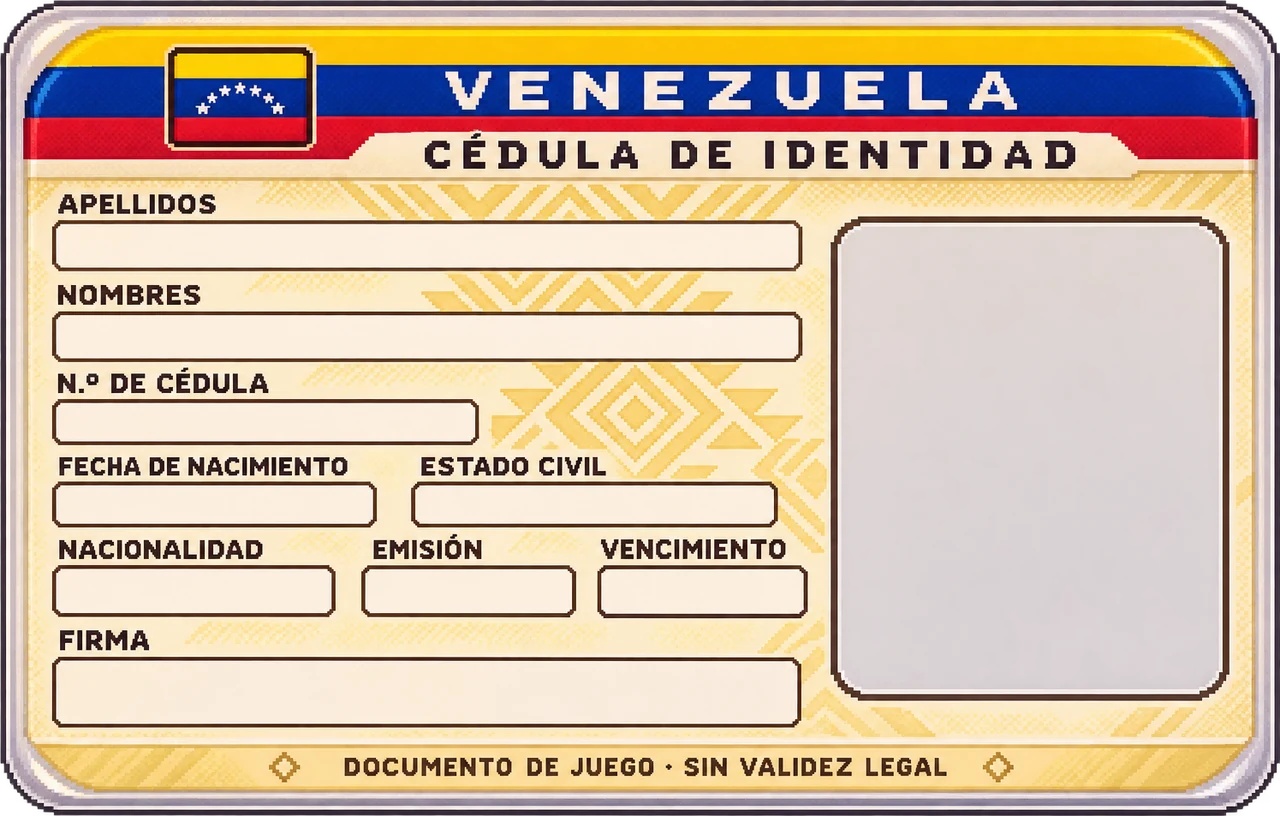
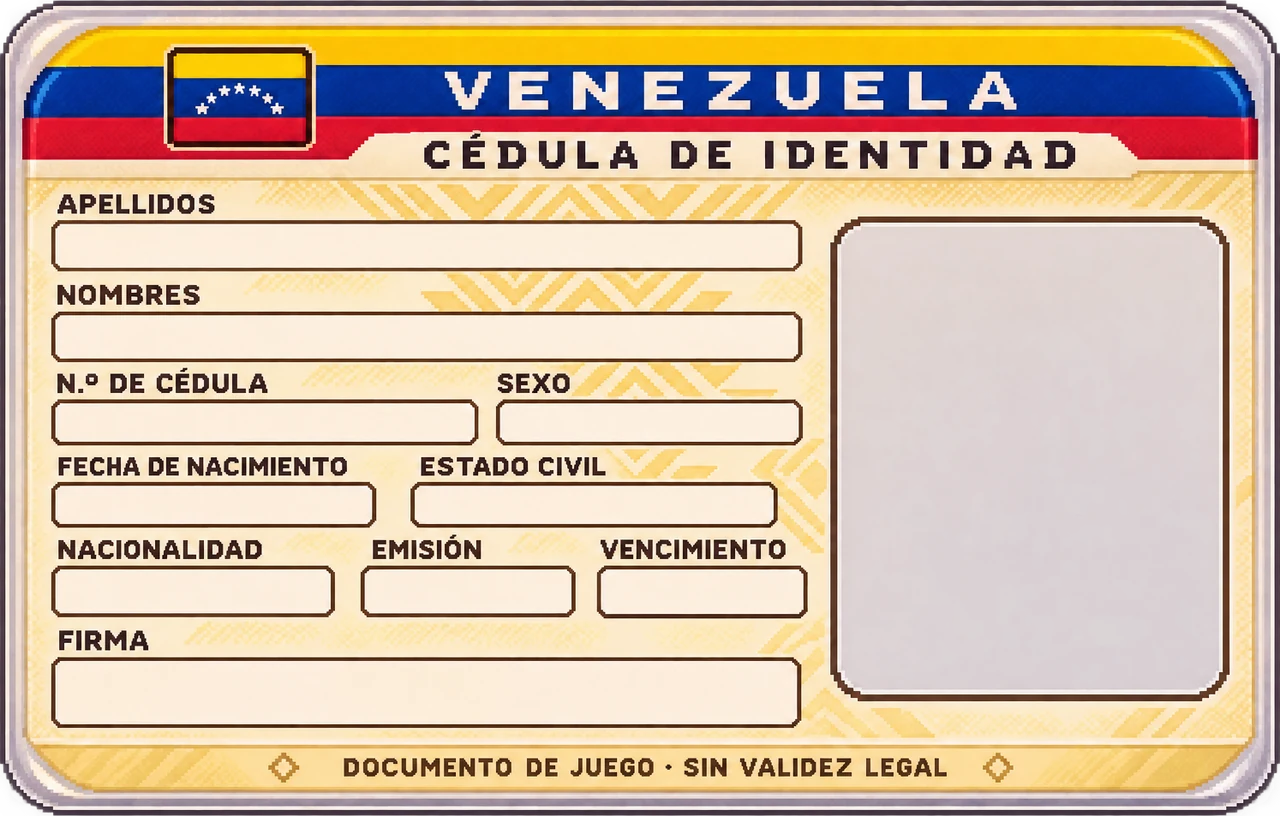
Recipe, Please 1.9.68: carnet de Venezuela con sexo y carnet de China
Claude-Session: https://claude.ai/code/session_018UFpU1d8ZLEVkvV1kBCNUa

diff --git a/game.js b/game.js
@@ -1,4 +1,4 @@
-/* RECIPE, PLEASE — Edición 1.9.67. Veintitrés pacientes chilenos más (48 en total); carnets de pelo rubio y rojo válidos, carnet falso de pelo negro, caso sin carnet con quetiapina 50 mg, menor de 17; carnet con pelo azul válido; carnets pendientes sin accesorio; mecanismo de carnet falso. */
+/* RECIPE, PLEASE — Edición 1.9.68. Veintitrés pacientes chilenos más (48 en total); carnets de pelo rubio y rojo válidos, carnet falso de pelo negro, caso sin carnet con quetiapina 50 mg, menor de 17; carnet con pelo azul válido; carnets pendientes sin accesorio; mecanismo de carnet falso. */
 'use strict';
 const TUGUEL_FIRST_VISIT_INDEX=2;
 const SIS_UNLOCK_DAY=2;
@@ -2020,7 +2020,7 @@ function wrap(body){
   toastEl.classList.remove('show');
  }
  const returning=modal?null:modalOpener;
- app.innerHTML=`<main class="shell" data-practice-step="${game.tutorial?game.patientIndex:''}"${modal?' inert aria-hidden="true"':''}>${['welcome','prologue'].includes(game.scene)||game.gameOverReason==='day-seven-false-prescription'?'':header()}${body}</main><div class="footer">RECIPE, PLEASE · Edición 1.9.67 · Una obra de ficción. Simulación farmacéutica simplificada, no una guía clínica ni normativa.</div>${modal}`;
+ app.innerHTML=`<main class="shell" data-practice-step="${game.tutorial?game.patientIndex:''}"${modal?' inert aria-hidden="true"':''}>${['welcome','prologue'].includes(game.scene)||game.gameOverReason==='day-seven-false-prescription'?'':header()}${body}</main><div class="footer">RECIPE, PLEASE · Edición 1.9.68 · Una obra de ficción. Simulación farmacéutica simplificada, no una guía clínica ni normativa.</div>${modal}`;
  bindDrag();
  if(!modal){
   clearModalRendering();
@@ -2062,7 +2062,7 @@ function btn(text,act,cls='dark',extra=''){return `<button class="btn ${cls}" da
 function actionbar(items){return `<div class="actionbar">${items.map(x=>btn(...x)).join('')}</div>`}
 function menuHtml(){clearModalRendering();if(TACA_PREVIEW){
  app.innerHTML='<main class="shell"><section class="menu-options"><h1>¡Campeones de taca-taca!</h1><div class="btn-row"><a class="btn cream" href="./?escenas=carlitos">Volver a probar las escenas</a><a class="btn green" href="./">Jugar la versión completa</a></div></section></main>';return;
- }let saved=load();app.innerHTML=`<main class="shell">${stage('menu','EDICIÓN JUGABLE · VERSIÓN 1.9.67','Su receta, por favor · una decisión, una consecuencia')}<section class="menu-options textured-menu"><div class="menu-audio" role="group" aria-label="Sonido y música"><button class="smallbtn audio-toggle" data-action="toggle-sound" aria-pressed="${ui.soundEnabled?'true':'false'}">${ui.soundEnabled?'♫ SONIDO: SÍ':'♪ SONIDO: NO'}</button><button class="smallbtn music-toggle" data-action="toggle-music" aria-pressed="${ui.musicEnabled?'true':'false'}">${ui.musicEnabled?'♬ MÚSICA: SÍ':'♩ MÚSICA: NO'}</button></div><h1>UNA RECETA.<br>UNA DECISIÓN.<br>UNA CONSECUENCIA.</h1><p>Eres el químico farmacéutico de una farmacia de barrio. Revisa documentos, recibe pedidos, controla medicamentos y cuida de tu familia. Las decisiones no siempre son fáciles.</p><div class="btn-row">${btn('▶ NUEVA PARTIDA','new','green')}${saved?btn('▣ CONTINUAR PARTIDA','continue','cream'):''}</div><div class="difficulty"><b>Esta versión ya permite:</b><p class="small">Pacientes sin repetición durante la campaña · firmas caligráficas · regalos animados · documentos con texturas · documentos arrastrables · atención y validación de recetas · comparación ampliada · recepción física de pedidos · reportes · libros correlativos · fiscalizaciones y rectificaciones · remuneración · familia y Carlitos · eventos clandestinos.</p><p class="tiny muted">Contiene una campaña de demostración con jornadas repetibles. El arte es un prototipo derivado de los bocetos aprobados; las reglas de juego no sustituyen procedimientos sanitarios reales.</p></div></section></main>`}
+ }let saved=load();app.innerHTML=`<main class="shell">${stage('menu','EDICIÓN JUGABLE · VERSIÓN 1.9.68','Su receta, por favor · una decisión, una consecuencia')}<section class="menu-options textured-menu"><div class="menu-audio" role="group" aria-label="Sonido y música"><button class="smallbtn audio-toggle" data-action="toggle-sound" aria-pressed="${ui.soundEnabled?'true':'false'}">${ui.soundEnabled?'♫ SONIDO: SÍ':'♪ SONIDO: NO'}</button><button class="smallbtn music-toggle" data-action="toggle-music" aria-pressed="${ui.musicEnabled?'true':'false'}">${ui.musicEnabled?'♬ MÚSICA: SÍ':'♩ MÚSICA: NO'}</button></div><h1>UNA RECETA.<br>UNA DECISIÓN.<br>UNA CONSECUENCIA.</h1><p>Eres el químico farmacéutico de una farmacia de barrio. Revisa documentos, recibe pedidos, controla medicamentos y cuida de tu familia. Las decisiones no siempre son fáciles.</p><div class="btn-row">${btn('▶ NUEVA PARTIDA','new','green')}${saved?btn('▣ CONTINUAR PARTIDA','continue','cream'):''}</div><div class="difficulty"><b>Esta versión ya permite:</b><p class="small">Pacientes sin repetición durante la campaña · firmas caligráficas · regalos animados · documentos con texturas · documentos arrastrables · atención y validación de recetas · comparación ampliada · recepción física de pedidos · reportes · libros correlativos · fiscalizaciones y rectificaciones · remuneración · familia y Carlitos · eventos clandestinos.</p><p class="tiny muted">Contiene una campaña de demostración con jornadas repetibles. El arte es un prototipo derivado de los bocetos aprobados; las reglas de juego no sustituyen procedimientos sanitarios reales.</p></div></section></main>`}
 function briefingHtml(){return `${stage('pharmacy',`MEMORÁNDUM · DÍA ${z(game.day)}`,'Inicio del turno farmacéutico')}<section class="content"><div class="content-grid"><div class="paper"><h2>CIRCULAR INTERNA</h2><p><b>Fecha:</b> ${dateOf(game.day)}</p><p><b>Jornada:</b> ${z(game.day)} / Simulación</p><hr><p>${game.day===1?'Revise identidad, tipo de receta y condiciones de dispensación. Un documento vencido debe devolverse sin denuncia automática.':game.day===2?'Desde hoy puede recibir una fiscalización. Mantenga al día el Libro y valide el código QR de cada receta electrónica antes de dispensar.':'Las alertas de talonarios robados y las discrepancias de inventario pueden relacionarse con casos anteriores. Revisa el teléfono ☎ en la barra superior.'}</p>${game.day>=3?'<p class="pill bad">ALERTA: FOLIOS 003450–003499</p>':''}<p class="mini">Catálogo ampliado por principio activo y concentración. Recetas simples sin libro especial de control. Todos los pacientes son ficticios.</p></div><div class="dark-card"><h2>ESTADO DE LA FARMACIA</h2><div class="money-line"><span>Pacientes programados</span><strong>${game.patients.length}</strong></div><div class="money-line"><span>Pedidos por recibir</span><strong>1</strong></div><div class="money-line"><span>Asientos pendientes</span><strong>${game.dispatches.filter(x=>!x.posted).length+game.receipts.filter(x=>!x.posted).length}</strong></div><div class="money-line"><span>Dinero familiar</span><strong>${pesos(game.cash)}</strong></div><div class="notice ${game.day>=3?'warn':''}">El hijo del protagonista se llama <b>Carlitos</b> y padece el síndrome ficticio de Neibacache.</div></div></div></section>${actionbar([['▶ COMENZAR ATENCIÓN','go-counter','green'],['▤ CONSULTAR LIBRO','book','cream'],['? VER MANUAL','manual','dark']])}`}
 function declaresTechnologistTitle(p){
  return p.kind==='tmFraud'&&p.claimedTitle==='Tecnólogo Médico';
@@ -2112,9 +2112,9 @@ function rufusCardHtml(draggable=false){
   draggable="false">`;
 }
 
-// Plantillas de carnet (1.9.67). Rectángulos en % de la imagen: [x,y,ancho,alto]. China conserva el diseño anterior.
-const ID_TEMPLATES={"HT":{"src":"assets/idcards/ht.webp","w":1480,"h":948,"r":{"photo":[4.53,24.79,29.39,56.33],"surname":[36.82,23.42,60.14,4.75],"names":[36.82,32.7,60.14,4.75],"doc":[36.82,42.19,33.65,4.75],"sex":[72.91,42.19,24.05,4.75],"birth":[36.69,51.79,26.76,4.54],"nat":[66.15,51.79,30.81,4.64],"place":[36.82,60.97,60.14,4.64],"issued":[36.69,70.36,27.03,4.75],"expires":[66.15,70.36,30.81,4.75],"sign":[36.82,80.38,60.0,9.7]}},"VE":{"src":"assets/idcards/ve.webp","w":1495,"h":953,"r":{"photo":[65.08,26.76,30.77,58.66],"surname":[4.21,27.28,58.33,5.67],"names":[4.21,38.41,58.33,5.67],"doc":[4.21,49.32,33.04,4.93],"birth":[4.21,59.29,25.08,5.14],"civil":[32.24,59.29,28.36,5.14],"nat":[4.21,69.46,21.81,5.77],"issued":[28.29,69.46,16.52,5.77],"expires":[46.76,69.46,16.19,5.77],"sign":[4.21,80.8,58.19,8.18]}},"IT":{"src":"assets/idcards/it.webp","w":1545,"h":962,"r":{"photo":[3.3,20.37,25.05,57.8],"surname":[31.59,22.56,49.97,4.37],"names":[31.59,31.6,49.97,4.26],"doc":[31.59,40.44,49.97,4.37],"place":[31.59,49.69,32.3,4.37],"birth":[66.6,49.69,22.27,4.37],"sex":[31.59,58.94,18.45,4.37],"nat":[54.69,58.94,34.17,4.37],"issued":[31.59,68.19,24.47,4.37],"expires":[60.71,68.19,28.16,4.37],"sign":[31.59,78.07,54.69,8.52]}},"AR":{"src":"assets/idcards/ar.webp","w":1517,"h":955,"r":{"photo":[4.35,19.37,28.02,52.67],"surname":[34.67,21.99,60.65,5.24],"names":[34.67,33.09,60.65,5.24],"sex":[34.67,44.29,14.37,5.45],"nat":[51.62,44.29,43.7,5.45],"birth":[34.67,55.39,34.08,5.24],"issued":[34.67,66.28,32.43,5.34],"expires":[34.54,77.28,32.76,5.24],"doc":[3.56,78.32,28.81,7.96],"sign":[70.6,66.81,25.84,18.64]}},"DE":{"src":"assets/idcards/de.webp","w":1545,"h":944,"r":{"photo":[3.37,21.61,30.42,64.62],"surname":[35.73,22.56,60.52,4.98],"names":[35.73,32.2,60.52,4.98],"doc":[35.73,41.95,34.76,4.87],"birth":[35.73,51.48,25.7,4.87],"place":[63.56,51.48,33.14,4.87],"nat":[35.73,61.12,36.63,4.98],"sex":[74.95,61.12,21.81,4.98],"issued":[35.73,70.76,28.09,4.98],"expires":[66.93,70.76,29.84,4.98],"sign":[35.73,80.83,61.04,9.96]}},"PE":{"src":"assets/idcards/pe.webp","w":1517,"h":891,"r":{"photo":[2.97,24.35,25.71,57.46],"surname":[30.52,27.5,58.47,5.27],"names":[30.52,38.38,58.47,5.27],"doc":[30.52,49.61,27.03,5.27],"birth":[60.25,49.61,26.83,5.27],"nat":[30.52,60.61,19.25,5.39],"sex":[52.08,60.61,11.14,5.39],"civil":[65.39,60.61,19.05,5.39],"issued":[30.52,72.05,23.8,5.39],"expires":[56.36,72.05,24.92,5.39],"sign":[29.93,80.47,47.26,10.33]}},"CL":{"src":"assets/idcards/cl.webp","w":1482,"h":898,"r":{"photo":[3.71,18.26,24.29,53.67],"surname":[30.77,21.05,52.29,5.79],"names":[30.77,32.74,52.16,5.79],"nat":[30.5,44.43,27.94,5.23],"sex":[60.8,44.43,23.75,5.23],"birth":[30.5,55.23,25.91,5.46],"doc":[59.11,55.23,26.45,5.46],"issued":[30.5,66.15,25.91,5.46],"expires":[59.11,66.15,26.45,5.46],"run":[3.58,78.95,24.97,8.69],"sign":[31.92,77.62,40.42,12.81]}},"BO":{"src":"assets/idcards/bo.webp","w":1551,"h":915,"r":{"photo":[3.42,19.45,26.31,56.83],"surname":[31.91,21.42,56.87,5.46],"names":[31.91,32.9,56.87,5.46],"doc":[31.91,43.93,39.91,5.36],"birth":[31.91,55.08,30.37,5.57],"nat":[64.35,55.08,32.43,5.57],"sex":[31.91,66.34,14.31,5.68],"issued":[48.23,66.34,23.4,5.68],"expires":[73.05,66.34,23.73,5.68],"sign":[45.2,75.74,50.16,13.99]}}};
-const ID_BIRTHPLACES={HT:['PORT-AU-PRINCE','CAP-HAÏTIEN','GONAÏVES','JACMEL','LES CAYES'],IT:['ROMA','MILANO','NAPOLI','TORINO','FIRENZE','BOLOGNA'],DE:['BERLIN','HAMBURG','MÜNCHEN','KÖLN','FRANKFURT','LEIPZIG']};
+// Plantillas de carnet (1.9.68). Rectángulos en % de la imagen: [x,y,ancho,alto]. 
+const ID_TEMPLATES={"HT":{"src":"assets/idcards/ht.webp","w":1480,"h":948,"r":{"photo":[4.53,24.79,29.39,56.33],"surname":[36.82,23.42,60.14,4.75],"names":[36.82,32.7,60.14,4.75],"doc":[36.82,42.19,33.65,4.75],"sex":[72.91,42.19,24.05,4.75],"birth":[36.69,51.79,26.76,4.54],"nat":[66.15,51.79,30.81,4.64],"place":[36.82,60.97,60.14,4.64],"issued":[36.69,70.36,27.03,4.75],"expires":[66.15,70.36,30.81,4.75],"sign":[36.82,80.38,60.0,9.7]}},"VE":{"src":"assets/idcards/ve.webp","w":1494,"h":953,"r":{"photo":[65.06,26.76,30.79,58.66],"surname":[4.15,27.28,58.37,5.67],"names":[4.15,38.41,58.37,5.67],"doc":[4.15,49.32,33.07,4.93],"sex":[38.82,49.32,23.76,4.93],"birth":[4.15,59.29,25.1,5.14],"civil":[32.2,59.29,28.38,5.14],"nat":[4.15,69.46,21.82,5.77],"issued":[28.25,69.46,16.53,5.77],"expires":[46.72,69.46,16.2,5.77],"sign":[4.15,80.8,58.23,8.18]}},"IT":{"src":"assets/idcards/it.webp","w":1545,"h":962,"r":{"photo":[3.3,20.37,25.05,57.8],"surname":[31.59,22.56,49.97,4.37],"names":[31.59,31.6,49.97,4.26],"doc":[31.59,40.44,49.97,4.37],"place":[31.59,49.69,32.3,4.37],"birth":[66.6,49.69,22.27,4.37],"sex":[31.59,58.94,18.45,4.37],"nat":[54.69,58.94,34.17,4.37],"issued":[31.59,68.19,24.47,4.37],"expires":[60.71,68.19,28.16,4.37],"sign":[31.59,78.07,54.69,8.52]}},"AR":{"src":"assets/idcards/ar.webp","w":1517,"h":955,"r":{"photo":[4.35,19.37,28.02,52.67],"surname":[34.67,21.99,60.65,5.24],"names":[34.67,33.09,60.65,5.24],"sex":[34.67,44.29,14.37,5.45],"nat":[51.62,44.29,43.7,5.45],"birth":[34.67,55.39,34.08,5.24],"issued":[34.67,66.28,32.43,5.34],"expires":[34.54,77.28,32.76,5.24],"doc":[3.56,78.32,28.81,7.96],"sign":[70.6,66.81,25.84,18.64]}},"DE":{"src":"assets/idcards/de.webp","w":1545,"h":944,"r":{"photo":[3.37,21.61,30.42,64.62],"surname":[35.73,22.56,60.52,4.98],"names":[35.73,32.2,60.52,4.98],"doc":[35.73,41.95,34.76,4.87],"birth":[35.73,51.48,25.7,4.87],"place":[63.56,51.48,33.14,4.87],"nat":[35.73,61.12,36.63,4.98],"sex":[74.95,61.12,21.81,4.98],"issued":[35.73,70.76,28.09,4.98],"expires":[66.93,70.76,29.84,4.98],"sign":[35.73,80.83,61.04,9.96]}},"PE":{"src":"assets/idcards/pe.webp","w":1517,"h":891,"r":{"photo":[2.97,24.35,25.71,57.46],"surname":[30.52,27.5,58.47,5.27],"names":[30.52,38.38,58.47,5.27],"doc":[30.52,49.61,27.03,5.27],"birth":[60.25,49.61,26.83,5.27],"nat":[30.52,60.61,19.25,5.39],"sex":[52.08,60.61,11.14,5.39],"civil":[65.39,60.61,19.05,5.39],"issued":[30.52,72.05,23.8,5.39],"expires":[56.36,72.05,24.92,5.39],"sign":[29.93,80.47,47.26,10.33]}},"CL":{"src":"assets/idcards/cl.webp","w":1482,"h":898,"r":{"photo":[3.71,18.26,24.29,53.67],"surname":[30.77,21.05,52.29,5.79],"names":[30.77,32.74,52.16,5.79],"nat":[30.5,44.43,27.94,5.23],"sex":[60.8,44.43,23.75,5.23],"birth":[30.5,55.23,25.91,5.46],"doc":[59.11,55.23,26.45,5.46],"issued":[30.5,66.15,25.91,5.46],"expires":[59.11,66.15,26.45,5.46],"run":[3.58,78.95,24.97,8.69],"sign":[31.92,77.62,40.42,12.81]}},"BO":{"src":"assets/idcards/bo.webp","w":1551,"h":915,"r":{"photo":[3.42,19.45,26.31,56.83],"surname":[31.91,21.42,56.87,5.46],"names":[31.91,32.9,56.87,5.46],"doc":[31.91,43.93,39.91,5.36],"birth":[31.91,55.08,30.37,5.57],"nat":[64.35,55.08,32.43,5.57],"sex":[31.91,66.34,14.31,5.68],"issued":[48.23,66.34,23.4,5.68],"expires":[73.05,66.34,23.73,5.68],"sign":[45.2,75.74,50.16,13.99]}},"CN":{"src":"assets/idcards/cn.webp","w":1492,"h":976,"r":{"photo":[70.58,22.44,26.01,43.03],"surname":[3.69,26.02,63.94,5.12],"names":[3.69,36.27,63.94,5.12],"sex":[3.69,46.52,19.57,4.51],"nat":[26.94,46.52,40.68,4.51],"birth":[3.69,56.15,24.66,4.51],"place":[31.23,56.15,36.39,4.51],"doc":[3.69,65.98,63.94,4.41],"issued":[3.69,75.41,26.74,4.61],"expires":[34.12,75.41,33.51,4.61],"sign":[3.69,85.04,64.08,6.97]}}};
+const ID_BIRTHPLACES={CN:['上海市','北京市','广州市','成都市','武汉市','杭州市'],HT:['PORT-AU-PRINCE','CAP-HAÏTIEN','GONAÏVES','JACMEL','LES CAYES'],IT:['ROMA','MILANO','NAPOLI','TORINO','FIRENZE','BOLOGNA'],DE:['BERLIN','HAMBURG','MÜNCHEN','KÖLN','FRANKFURT','LEIPZIG']};
 function idCivilStatus(p,dates){
  const seed=(Number(p.portraitSeed)||0)>>>0,fem=p.idSex==='F';
  const y=Number(String(dates.birth||'').slice(-4))||1990,age=2026-y;

diff --git a/index.html b/index.html
@@ -5,8 +5,8 @@
 <meta name="viewport" content="width=device-width, initial-scale=1, viewport-fit=cover">
 <link rel="icon" type="image/png" href="assets/branding/recipe-please-logo.png">
 <meta name="theme-color" content="#222c27">
-<meta name="description" content="RECIPE, PLEASE — Simulador narrativo farmacéutico, versión jugable 1.9.67 móvil.">
-<title>RECIPE, PLEASE · Edición 1.9.67 móvil</title>
+<meta name="description" content="RECIPE, PLEASE — Simulador narrativo farmacéutico, versión jugable 1.9.68 móvil.">
+<title>RECIPE, PLEASE · Edición 1.9.68 móvil</title>
 <link rel="stylesheet" href="styles.css">
 </head>
 <body>
